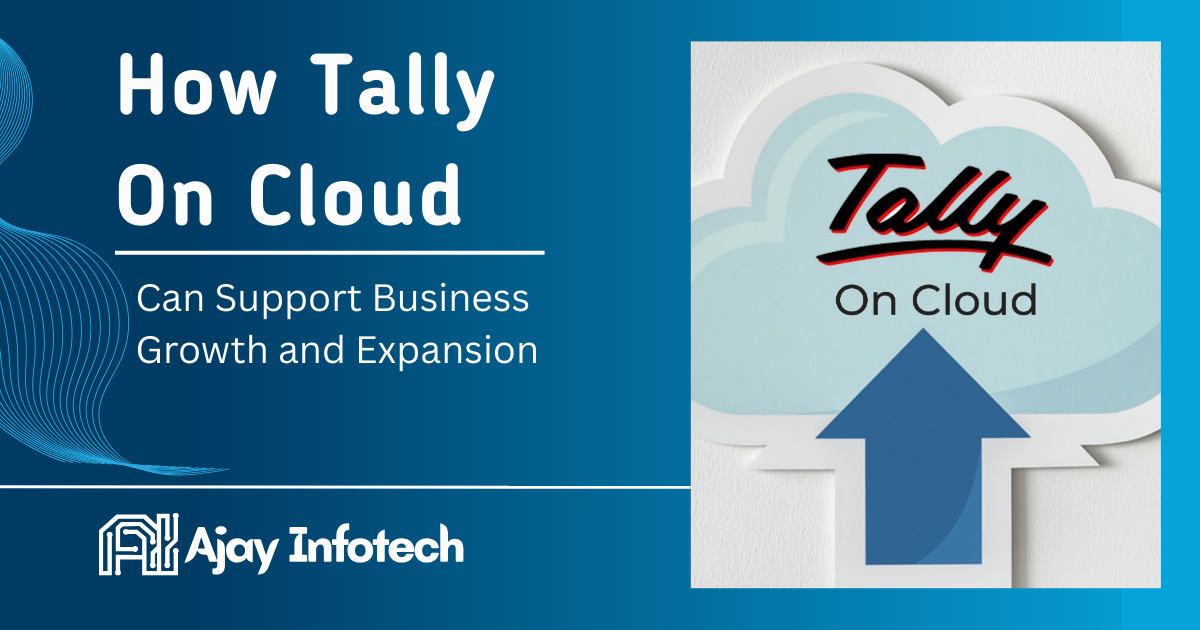
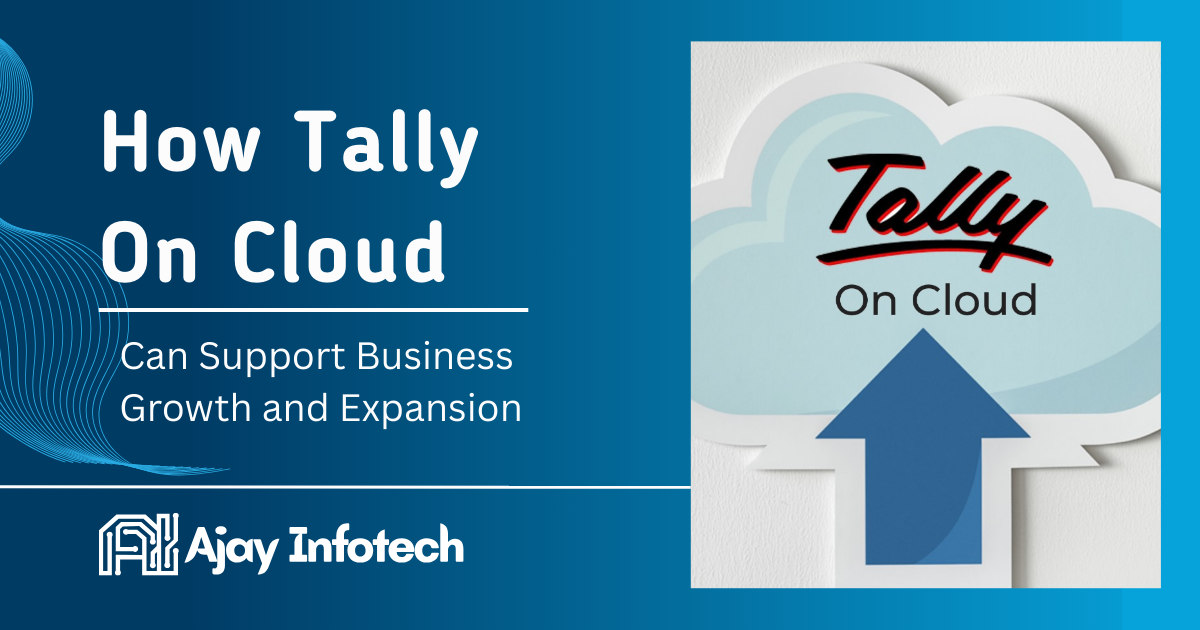
Blog 4

Changed region(s): [[0.0617, 0.0603, 0.4625, 0.6032], [0.0925, 0.6333, 0.4317, 0.6937]]

diff --git a/tallyoncloud.php b/tallyoncloud.php
@@ -8,12 +8,6 @@
 
   <!-- styling start -->
 <style>
-
-
-
-
-
-
   .main-container {
     display: flex;
     flex-direction: row;
@@ -99,9 +93,6 @@
 </style>
 <!-- styling end -->
 
-
-
-
 <script>
     // Check if the URL contains "success=true" and show an alert
     window.onload = function() {
@@ -111,36 +102,25 @@
         }
     };
   </script>
-  
-
 </head>
 
-
 <body>
-  
-
-  
   <!-- Spinner Start -->
   <div id="spinner" class="show bg-white position-fixed translate-middle w-100 vh-100 top-50 start-50 d-flex align-items-center justify-content-center">
     <div class="spinner"></div>
 </div>
 <!-- Spinner End -->
 
-
-
-
-
-
 <!-- Navbar & Carousel Start -->
 <?php include 'navbar.php' ?>
 <!-- Navbar & Carousel end -->
 
-
 <!-- background name display start -->
-<div class="aiheaderimage">
-    <img src="img/Tally Pime backgrornd image.png"  class="header-image">
-    <h1 class="title">Blog Details</h1>
+<div class="aiheaderimage" style="text-align: center;">
+    <img src="img/Tally Pime backgrornd image.png" class="header-image" alt="Tally Background Image">
+    <h3 class="title" style="text-align: center;">How Tally on Cloud can support Business Growth and Expansion?</h3>
 </div>
+
 <!-- background name display end -->
 
 <!-- Full Screen Search End -->
@@ -153,107 +133,45 @@
                 <div class="col-lg-8">
                     <!-- Blog Detail Start -->
                     <div class="mb-5 position-relative">
-    <img class="img-fluid w-100 rounded mb-5" src="img\banreconcilation.png" alt="">
-
-    <a class="position-absolute bg-primary text-white rounded-end py-1 px-3" 
+                        <img class="img-fluid w-100 rounded mb-5" src="img\tallyoncloudblog.png" alt="">
+                        <a class="position-absolute bg-primary text-white rounded-end py-1 px-3" 
        style="top: 20px; left: 0; z-index: 10;" 
-       href="bankReconciliation.php">
-        24 April 2025
+       href="tallyoncloud.php">
+        08 May 2025
     </a>
+                        <h1 class="mb-4">How Tally on Cloud can support Business Growth and Expansion?</h1>
+                        <p>In an era where agility and scalability define success, businesses are increasingly shifting towards cloud-based solutions to stay competitive. One such transformation gaining momentum is the migration of Tally accounting software to the cloud. <strong>Tally on Cloud</strong> is not just a technological upgrade; it is a strategic move that can significantly enhance a business's potential to grow and expand efficiently.</p>
 
-    <h1 class="mb-4">Bank Reconciliation In TallyPrime 6.0
-    </h1>
+    <h3>1. Remote Accessibility and Flexibility</h3>
+    <p>With Tally on Cloud, businesses can access their accounting data from anywhere, at any time, using any internet-enabled device. This flexibility empowers teams to collaborate in real-time, even if they are working from different locations. For growing businesses with multiple branches or remote employees, this level of accessibility ensures continuity and efficiency in operations.</p>
 
-    <p>Imagine finding your bank statement and realizing that the balance doesn’t match what you see in Tally. Perhaps a cheque hasn’t cleared, or a customer’s payment arrived late. This is where <strong>TallyPrime 6.0</strong> steps in with Bank Reconciliation, allowing you to compare your Tally records with the bank statement by specifying when transactions are cleared. This ensures Tally’s bank account balance syncs with the real bank balance.</p>
+    <h3>2. Scalability Without Infrastructure Costs</h3>
+    <p>Traditionally, expanding business operations required significant investment in hardware, software, and IT personnel. Cloud-based Tally eliminates the need for physical servers and reduces the dependency on in-house IT infrastructure. As the business grows, cloud resources can be scaled up easily, supporting expansion without incurring heavy upfront costs.</p>
 
-    <p><strong>Bank Reconciliation</strong> in TallyPrime Release 6.0 is an important feature beneficial for banking and accounting. Through this blog, we help you understand in depth about bank reconciliation and its use cases.</p>
+    <h3>3. Enhanced Data Security and Backup</h3>
+    <p>Security is a top concern for any business. Tally on Cloud offers advanced security features like end-to-end encryption, multi-factor authentication, and automated data backups. This ensures that critical financial data is protected against threats like data breaches, system failures, or accidental deletions, giving business owners peace of mind.</p>
 
-    <h2>What is Bank Reconciliation in TallyPrime 6.0?</h2>
-    <p>Bank reconciliation means reconciling your firm's books of account with your bank statement to make sure both accounts present the same amounts. This process makes it easy to identify differences, detect unauthorized transactions, and maintain accurate records. It’s vital for managing finances and ensuring healthy cash flow. TallyPrime 6.0 simplifies bank reconciliation, helping businesses match figures and maintain financial stability.</p>
+    <h3>4. Real-Time Collaboration and Centralized Data</h3>
+    <p>Cloud hosting provides a centralized platform where all users can access updated information simultaneously. This real-time collaboration minimizes errors, reduces redundancies, and enhances productivity. As businesses expand into new markets or regions, maintaining consistency in data and operations becomes critical, which cloud-based Tally facilitates effortlessly.</p>
 
-    <h2>Key Features</h2>
-    <ul>
-        <li><strong>Automated Bank Statement Import:</strong> Import bank statements in text, Excel, or CSV formats to save time and reduce errors.</li>
-        <li><strong>Auto-Matching of Transactions:</strong> TallyPrime auto-reconciles exact matches and suggests potential ones based on date, amount, and reference number.</li>
-        <li><strong>Real-Time Updates & Error Detection:</strong> Automatically updates reconciliation when new transactions are imported, with alerts for mismatches.</li>
-        <li><strong>Improved User Interface:</strong> User-friendly design for easy comparison of statements, matched, and pending transactions.</li>
-    </ul>
+    <h3>5. Cost-Efficient and Time-Saving</h3>
+    <p>Operating Tally on Cloud reduces operational overheads related to hardware maintenance, software upgrades, and IT staffing. Cloud service providers handle the technical aspects, allowing businesses to focus on core activities. Additionally, the quick deployment and minimal downtime mean businesses can adapt to changes rapidly.</p>
 
-    <h2>How to Perform Bank Reconciliation in TallyPrime 6.0</h2>
-    <ol>
-        <li>Go to <em>Gateway of Tally > Banking > Bank Reconciliation</em>.</li>
-        <li>Select the Bank Ledger to reconcile.</li>
-        <li>Import your statement via Alt+O (Excel/CSV) or use Connected Banking, or manually enter details.</li>
-        <li>Enter the Bank Statement Date.</li>
-        <li>Input the Bank Date when each entry cleared.</li>
-        <li>Review and adjust unmatched entries.</li>
-    </ol>
+    <h3>6. Compliance and Up-to-Date Features</h3>
+    <p>Cloud solutions often come with automated updates and patches, ensuring that your Tally software is always compliant with the latest tax laws and accounting standards. This is especially beneficial for businesses operating in multiple regions with varying regulatory requirements.</p>
 
-    <h2>Benefits of Using Bank Reconciliation in TallyPrime 6.0</h2>
-    <ul>
-        <li><strong>Saves Time by Automation:</strong> Reduces manual work to minutes.</li>
-        <li><strong>Removes Manual Errors:</strong> Eliminates numerical mistakes and improves accuracy.</li>
-        <li><strong>Maintains Current Financial Records:</strong> Ensures updated and accurate financial reports and tax filing.</li>
-        <li><strong>Detects Unauthorized Transactions:</strong> Identifies mismatched entries and enables corrective action.</li>
-        <li><strong>Enhances Cash Flow Management:</strong> Provides better visibility and planning capabilities.</li>
-    </ul>
+    <h3>Conclusion</h3>
+    <p><strong>Tally on Cloud</strong> is more than a convenience—it’s a growth enabler. By offering flexibility, scalability, security, and cost savings, it lays a strong foundation for businesses aiming to expand their operations without technological limitations. Whether you’re a small enterprise planning to scale or a large organization looking to streamline multi-location accounting, migrating Tally to the cloud can be a game-changer in your growth journey.</p>
 
-    <h2>Common Challenges in Bank Reconciliation</h2>
-    <ul>
-        <li><strong>Duplicate Entries:</strong> Automatically flagged by TallyPrime.</li>
-        <li><strong>Missing Transactions:</strong> Unmatched entries are flagged for review.</li>
-        <li><strong>Bank Charges & Interest:</strong> Can be posted directly during reconciliation.</li>
-        <li><strong>Error Notifications:</strong> Alerts users to address mismatches instantly.</li>
-        <li><strong>Transaction Date Differences:</strong> Close date matches are suggested.</li>
-    </ul>
-
-    <h2>Tips for Accurate Bank Reconciliation</h2>
-    <ul>
-        <li>Reconcile regularly to identify issues early.</li>
-        <li>Always import bank statements instead of manual entry.</li>
-        <li>Cross-check high-value transactions for accuracy.</li>
-        <li>Investigate unmatched entries thoroughly.</li>
-        <li>Post bank charges and interest promptly.</li>
-        <li>Backup financial data regularly.</li>
-        <li>Use TallyPrime’s error notifications for faster resolution.</li>
-    </ul>
-
-    <h2>Conclusion</h2>
-    <p>Bank reconciliation doesn't have to be a source of fear. With TallyPrime Release 6.0, businesses can automate the process, enhance accuracy, and free up precious time. The advanced features of the software make it simpler than ever to keep your books up to date and catch discrepancies before they become serious problems.</p>
-
-    <p>At <strong>Ajay Infotech</strong>, we realize the significance of proper financial management. As experienced Tally partners for more than three decades, we offer complete solutions to enable businesses to utilize the robust capabilities of TallyPrime. Our professional team provides customized support, training, and advice to facilitate smooth bank reconciliation and other financial activities.</p>
-
-    <p>Whether you are a small business or an enterprise, Antraweb's committed support can assist you in streamlining your financial activities and enhancing efficiency.</p>
-
-    <p><strong>Ready to simplify your bank reconciliation process?</strong> Switch to TallyPrime Release 6.0 today and experience hassle-free bank reconciliation. <a href="maincontact.php ">Contact us today</a> for expert consultation and seamless implementation of TallyPrime in your business workflow.</p>
-</div>
-
-
+    <p><strong>Ready to take your business to the next level? Consider switching to Tally on Cloud and unlock new possibilities for success.</strong></p>
+  </div>
                     <!-- Blog Detail End -->
     
                    
                     <!-- Comment List End -->
     
                     <!-- Comment Form Start -->
-                    <div class="col-12 wow slideInUp" data-wow-delay="0.1s">
-                            <nav aria-label="Page navigation">
-                              <ul class="pagination pagination-lg m-0">
-                                <li class="page-item disabled">
-                                  <a class="page-link rounded-0" href="#" aria-label="Previous">
-                                    <span aria-hidden="true"><i class="bi bi-arrow-left"></i></span>
-                                  </a>
-                                </li>
-                                <li class="page-item active"><a class="page-link" href="#">1</a></li>
-                                <li class="page-item"><a class="page-link" href="#">2</a></li>
-                                <li class="page-item"><a class="page-link" href="#">3</a></li>
-                                <li class="page-item">
-                                  <a class="page-link rounded-0" href="#" aria-label="Next">
-                                    <span aria-hidden="true"><i class="bi bi-arrow-right"></i></span>
-                                  </a>
-                                </li>
-                              </ul>
-                            </nav>
-                        </div>
+                    
                     <!-- Comment Form End -->
                 </div>
     
@@ -267,11 +185,12 @@
                         </div>
                     </div>
                     <!-- Search Form End -->
+    
                     <div class="recent-blogs" style="padding-left:20px;">
                     <h3>Recent Blogs</h3>
                     <div class="d-flex mb-3 align-items-center bg-light p-2 rounded">
                         <img class="img-fluid" src="img\tallyoncloudblog.png" style="width: 120px; height: 60px; object-fit: cover;" alt="">
-                        <a href="tallyoncloud.php" class="small ms-2">How Tally on Cloud can suport business growth and Expansion</a>
+                        <a href="tallyoncloud.php" class="small ms-2">How Tally on Cloud can suport business growth and Expansion?</a>
                     </div>
                     <div class="d-flex mb-3 align-items-center bg-light p-2 rounded">
                         <img class="img-fluid" src="img\banreconcilation.png" style="width: 120px; height: 60px; object-fit: cover;" alt="">
@@ -286,6 +205,7 @@
                         <a href="tallyprime6.php" class="small ms-2">What's new in Tally Prime 6.0?</a>
                     </div>
                     </div>
+    
                     <!-- Recent Post Start 
                     <div class="mb-4 wow slideInUp" data-wow-delay="0.1s" style="margin-left:30px;">
                     <h5 class="section-title-sm pb-2" >Recent Post</h5>
@@ -309,8 +229,9 @@
                         <img class="img-fluid" src="img/tally 6.png" style="width: 120px; height: 60px; object-fit: cover;" alt="">
                         <a href="blogdetails4.php" class="small ms-2">What's new in Tally Prime 6.0?</a>
                     </div>
+                    
                 </div>
-                     Recent Post End -->
+                    Recent Post End -->
     
                     <!-- Tags Start -->
                     <div class="mb-5 wow slideInUp" data-wow-delay="0.1s" style="margin-left:20px;">
@@ -332,54 +253,31 @@
                             <a href="" class="btn btn-light m-1">Consulting</a>
                         </div>
                     </div>
-                    <!-- Tags End -->
-
-    <!-- Second Container: Search Section -->
-    </div>
+                
+                    </div>
 </div>
 </div>
 </div>
-
 
 <!-- contact start -->
 
 <?php include 'contact.php' ?>
-
-  
   
   <!-- contact end -->
-
-
-
 
 <!-- Vendor Start -->
 <?php include 'vendor.php' ?>
 <!-- Vendor End -->
 
-
-
-
-
-
-
-
-
 <!-- footer start -->
 <?php include 'footer.php' ?>
   <!-- Footer End -->
 
-
-
-
-
-
 <a href="#" class="btn btn-lg btn-primary btn-lg-square rounded back-to-top"><i class="bi bi-arrow-up"></i></a>
-
 
 <!-- JavaScript Libraries -->
 <?php include 'linkscript.php' ?>
-
-
+  
 </body>
 
 

diff --git a/blog.php b/blog.php
@@ -229,6 +229,20 @@
                <div class="col-md-6 wow slideInUp" data-wow-delay="0.2s">
                         <div class="blog-item bg-light rounded overflow-hidden">
                             <div class="blog-img position-relative overflow-hidden">
+                                <img class="img-fluid" src="img\tallyoncloudblog.png" alt="" style="width:100%; height:250px;">
+                                <a class="position-absolute top-0 start-0 bg-primary text-white rounded-end mt-2 py-1 px-3" href="bankReconciliation.php">05 May 2025</a>
+                            </div>
+                            <div class="p-3">
+                                <h5 class="mb-2">How Tally on Cloud can support Business for Growht and Expansion
+                                </h5>
+                                <p class="small">Learn how to optimize your website for search engines and rank higher.</p>
+                                <a class="text-uppercase small fw-bold" href="tallyoncloud.php">Read More <i class="bi bi-arrow-right"></i></a>
+                            </div>
+                        </div>
+                    </div>
+               <div class="col-md-6 wow slideInUp" data-wow-delay="0.2s">
+                        <div class="blog-item bg-light rounded overflow-hidden">
+                            <div class="blog-img position-relative overflow-hidden">
                                 <img class="img-fluid" src="img\banreconcilation.png" alt="" style="width:100%; height:250px;">
                                 <a class="position-absolute top-0 start-0 bg-primary text-white rounded-end mt-2 py-1 px-3" href="bankReconciliation.php">24 April 2025</a>
                             </div>

diff --git a/reportsintallyprime.php b/reportsintallyprime.php
@@ -207,6 +207,10 @@
                     <div class="recent-blogs" style="padding-left:20px;">
                     <h3>Recent Blogs</h3>
                     <div class="d-flex mb-3 align-items-center bg-light p-2 rounded">
+                        <img class="img-fluid" src="img\tallyoncloudblog.png" style="width: 120px; height: 60px; object-fit: cover;" alt="">
+                        <a href="tallyoncloud.php" class="small ms-2">How Tally on Cloud can suport business growth and Expansion</a>
+                    </div>
+                    <div class="d-flex mb-3 align-items-center bg-light p-2 rounded">
                         <img class="img-fluid" src="img\banreconcilation.png" style="width: 120px; height: 60px; object-fit: cover;" alt="">
                         <a href="bankReconciliation.php" class="small ms-2">Bank Reconciliation In TallyPrime 6.0</a>
                     </div>

diff --git a/tallyprime6.php b/tallyprime6.php
@@ -192,6 +192,10 @@
                     <div class="recent-blogs" style="padding-left:20px;">
                     <h3>Recent Blogs</h3>
                     <div class="d-flex mb-3 align-items-center bg-light p-2 rounded">
+                        <img class="img-fluid" src="img\tallyoncloudblog.png" style="width: 120px; height: 60px; object-fit: cover;" alt="">
+                        <a href="tallyoncloud.php" class="small ms-2">How Tally on Cloud can suport business growth and Expansion</a>
+                    </div>
+                    <div class="d-flex mb-3 align-items-center bg-light p-2 rounded">
                         <img class="img-fluid" src="img\banreconcilation.png" style="width: 120px; height: 60px; object-fit: cover;" alt="">
                         <a href="bankReconciliation.php" class="small ms-2">Bank Reconciliation In TallyPrime 6.0</a>
                     </div>
